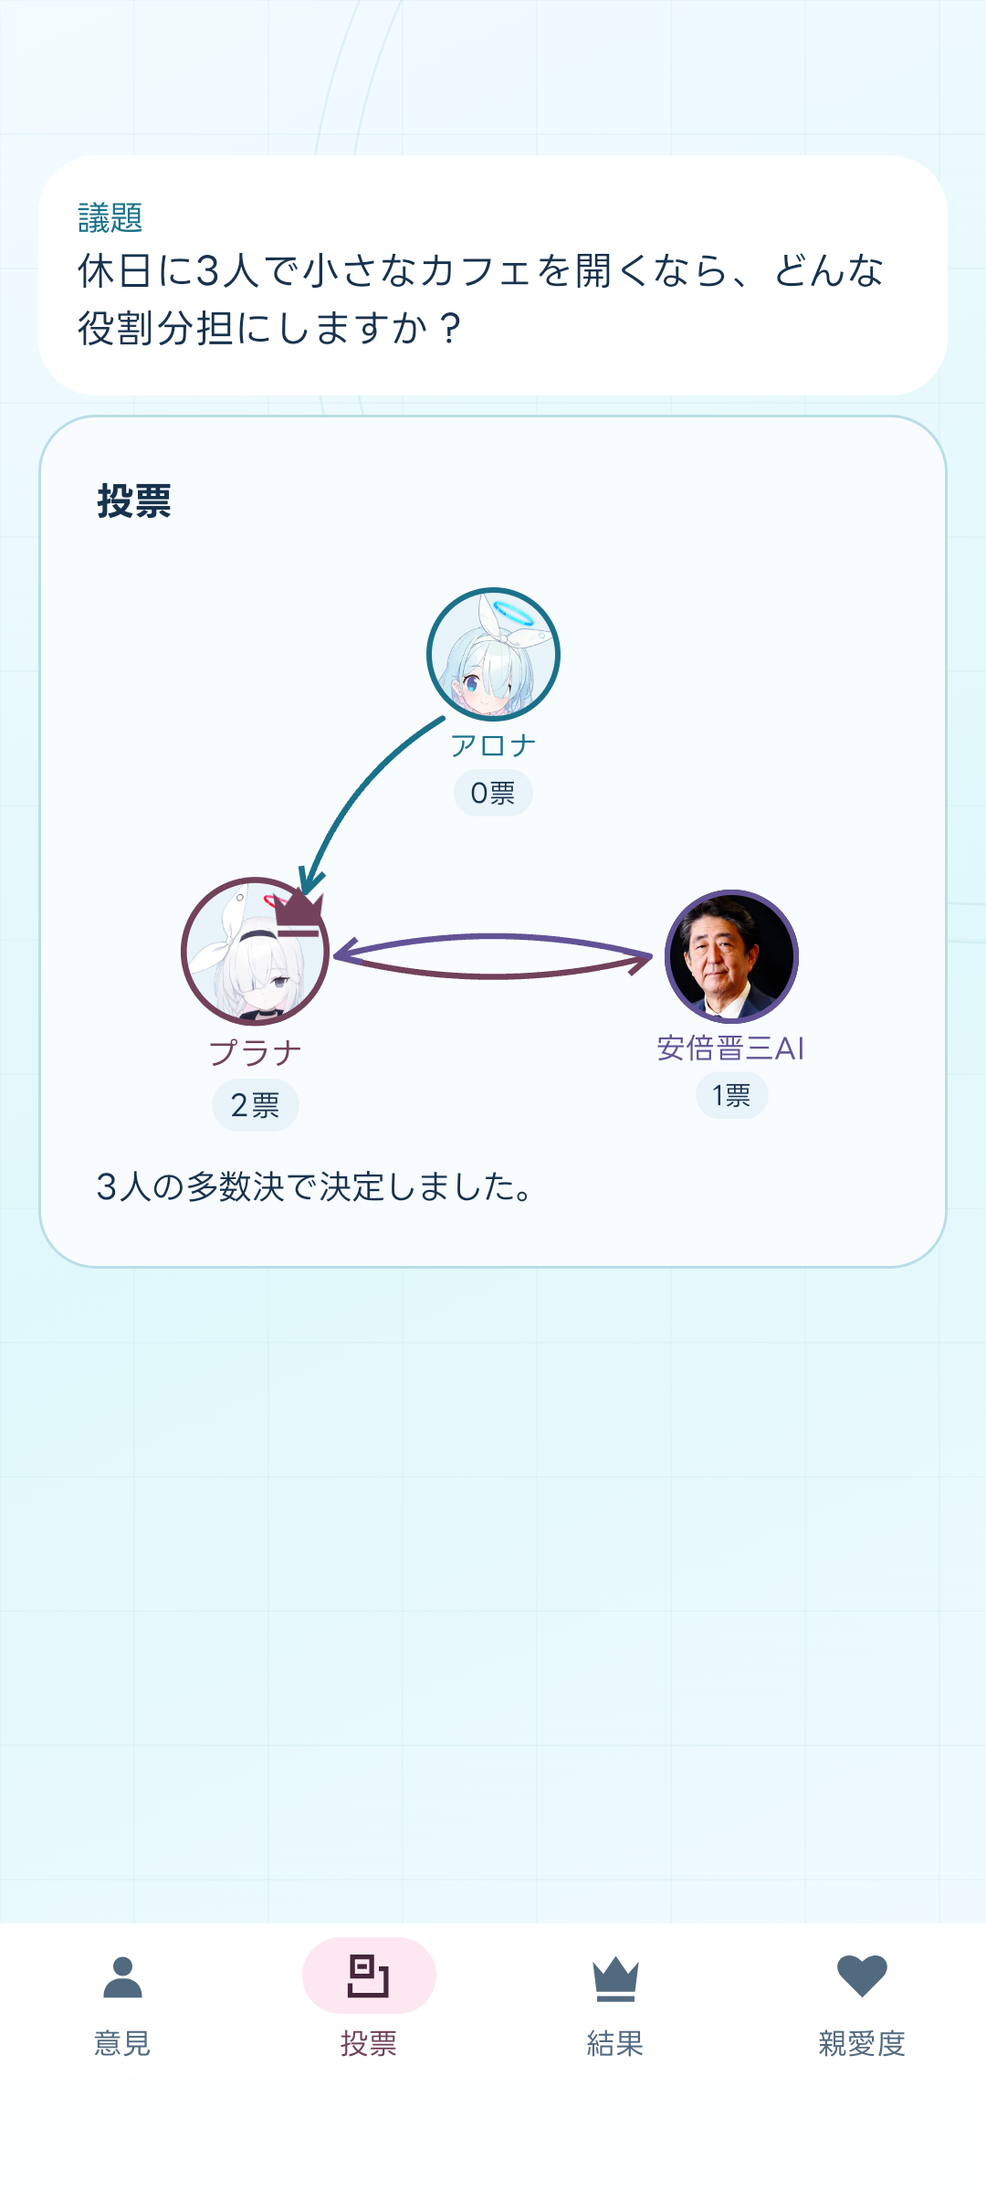
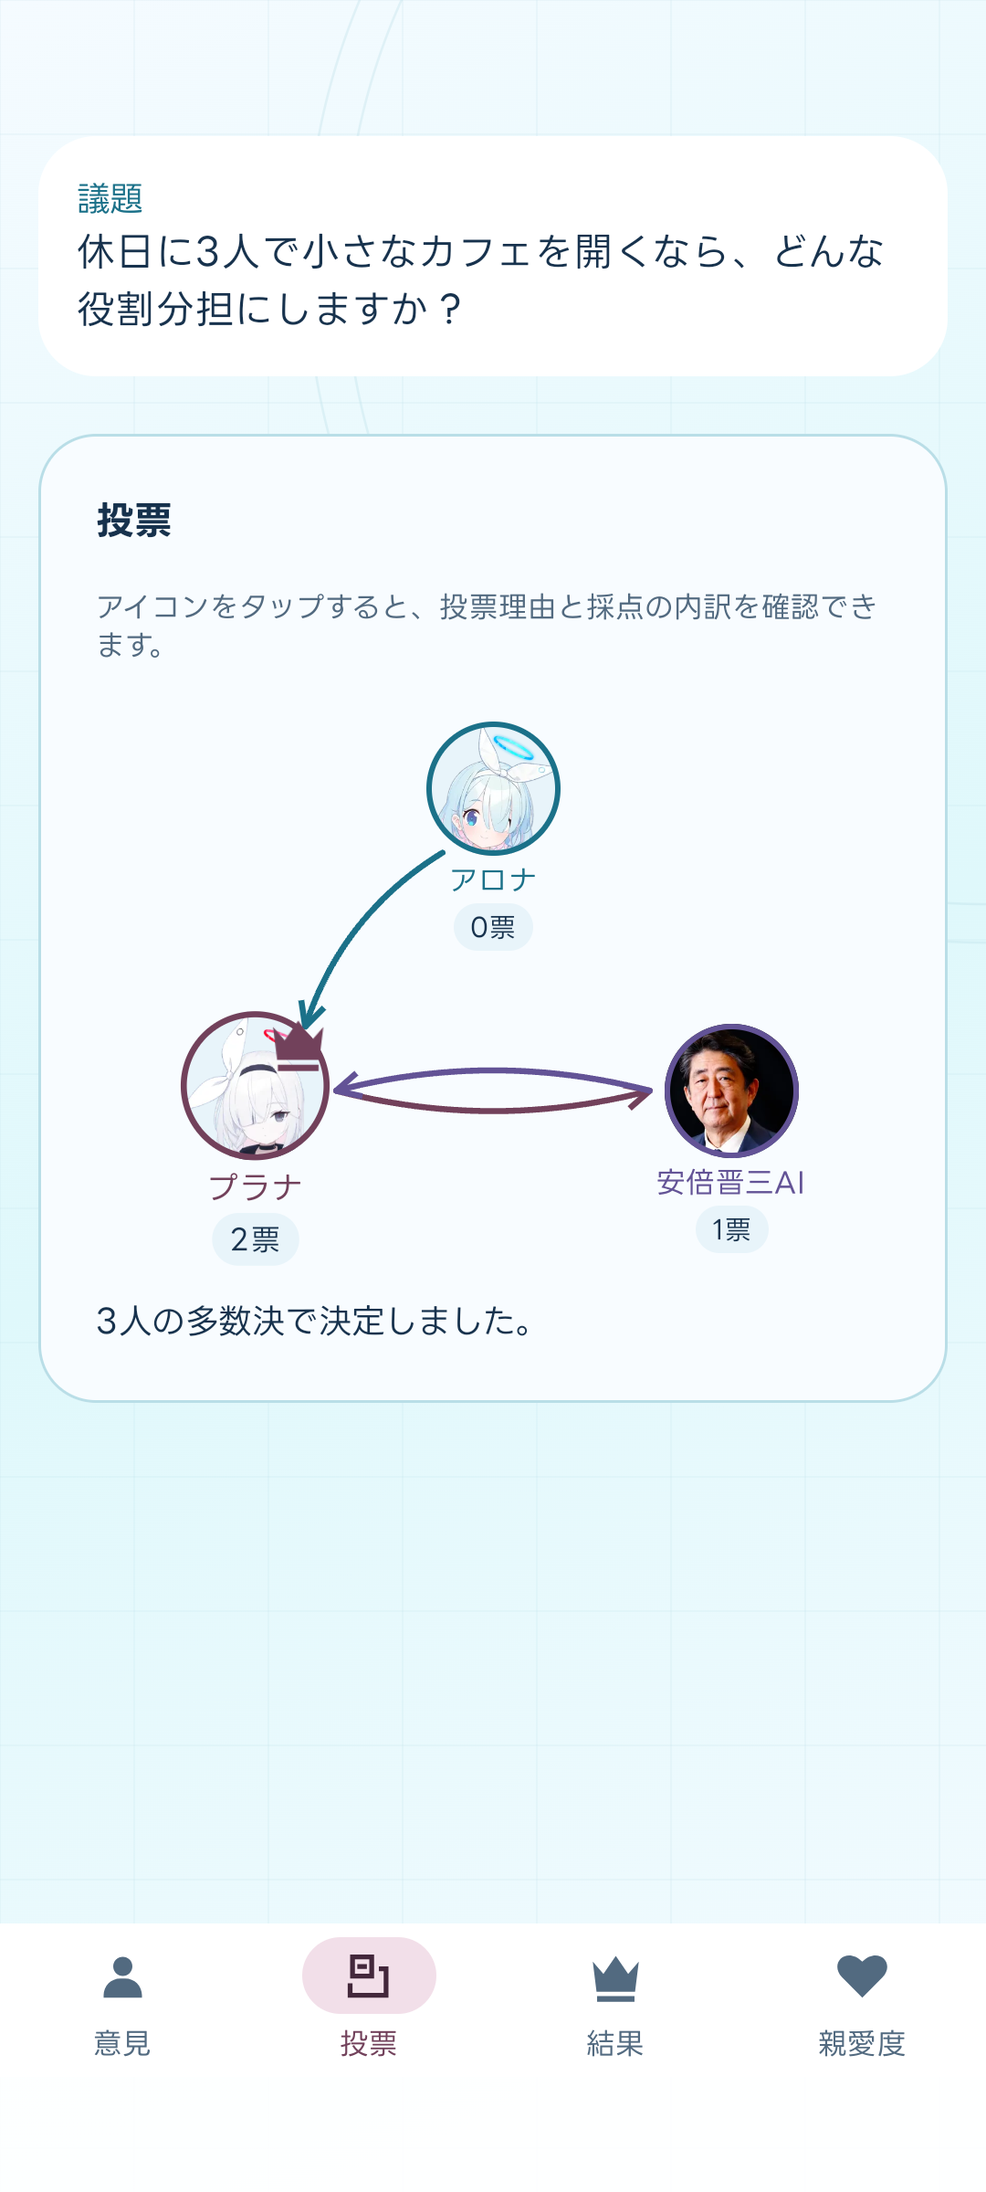
Android詳細の議題固定と戻り演出を修正

diff --git a/apps/records-android/app/src/main/java/dev/pitekusu/shittim/records/RecordDetailScreen.kt b/apps/records-android/app/src/main/java/dev/pitekusu/shittim/records/RecordDetailScreen.kt
@@ -2,11 +2,13 @@ package dev.pitekusu.shittim.records
 
 import androidx.annotation.DrawableRes
 import androidx.annotation.StringRes
+import androidx.compose.foundation.layout.BoxWithConstraints
 import androidx.compose.foundation.layout.Column
 import androidx.compose.foundation.layout.PaddingValues
 import androidx.compose.foundation.layout.WindowInsets
 import androidx.compose.foundation.layout.fillMaxSize
 import androidx.compose.foundation.layout.fillMaxWidth
+import androidx.compose.foundation.layout.heightIn
 import androidx.compose.foundation.layout.padding
 import androidx.compose.foundation.layout.size
 import androidx.compose.foundation.lazy.LazyColumn
@@ -14,6 +16,8 @@ import androidx.compose.foundation.lazy.LazyListState
 import androidx.compose.foundation.lazy.rememberLazyListState
 import androidx.compose.foundation.pager.HorizontalPager
 import androidx.compose.foundation.pager.rememberPagerState
+import androidx.compose.foundation.rememberScrollState
+import androidx.compose.foundation.verticalScroll
 import androidx.compose.material3.Icon
 import androidx.compose.material3.ExperimentalMaterial3Api
 import androidx.compose.material3.ModalBottomSheet
@@ -106,77 +110,83 @@ internal fun RecordDetailScreen(state: RecordPreviewState, recordId: String,
     // The API has three personas; each initial/final answer has its own small saved scroll state.
     val opinionScrollStates = List(3) { listOf(rememberLazyListState(), rememberLazyListState()) }
     val affectionScrollStates = List(3) { rememberLazyListState() }
-    Column(modifier.fillMaxSize()) {
-      HorizontalPager(pager, Modifier.weight(1f).fillMaxWidth().testTag("detail-pager"),
-        userScrollEnabled = state is RecordPreviewState.Ready) { page ->
-        val section = RecordDetailSection.entries[page]
-        var affectionControlsBottom by remember { mutableFloatStateOf(Float.NEGATIVE_INFINITY) }
-        val active = motionAllowed && !questionOpen && !pager.isScrollInProgress && pager.settledPage == page &&
-          lifecycle.isAtLeast(Lifecycle.State.STARTED)
-        val scrollState = if (section == RecordDetailSection.Opinions && opinion != null)
-          opinionScrollStates[opinionIndex.coerceIn(0, 2)][if (finalOpinion) 1 else 0]
-          else if (section == RecordDetailSection.Affection && affectionChanges.isNotEmpty())
-            affectionScrollStates[affectionIndex.coerceIn(0, 2)]
-          else if (section == RecordDetailSection.Result) resultScrollState
-          else scrollStates[page]
-        LazyColumn(Modifier.fillMaxSize().testTag(if (pager.settledPage == page) scrollTag
-          else "detail-inactive-$page")
-          .then(if (pager.settledPage == page) Modifier else Modifier.clearAndSetSemantics {}), state = scrollState,
-          contentPadding = PaddingValues(ShittimSpacing.Medium)) {
-          if (state is RecordPreviewState.Ready) item(key = "question") {
-            // Long questions scroll with the page: no ellipsis, and no fixed header stealing
-            // the entire answer/animation viewport at large font sizes.
-            Surface(onClick = { questionOpen = true },
-              color = MaterialTheme.colorScheme.surfaceContainer,
-              shape = MaterialTheme.shapes.large,
-              modifier = Modifier.fillMaxWidth().padding(bottom = ShittimSpacing.Small)
-                .testTag("detail-question-open")) {
-              Column(Modifier.padding(ShittimSpacing.Medium)) {
-                Text(stringResource(R.string.record_question),
-                  style = MaterialTheme.typography.labelLarge,
-                  color = MaterialTheme.colorScheme.primary)
-                Text(state.preview.question, style = MaterialTheme.typography.bodyLarge,
-                  modifier = Modifier.testTag("detail-question-text"))
-              }
+    val questionScrollState = rememberScrollState()
+    BoxWithConstraints(modifier.fillMaxSize()) {
+      // The shared question stays outside the pager. Bound only its viewport, never its text,
+      // so long questions and large fonts cannot consume all of the answer/navigation space.
+      val questionMaximumHeight = maxHeight * 0.35f
+      Column(Modifier.fillMaxSize()) {
+        if (state is RecordPreviewState.Ready) {
+          Surface(onClick = { questionOpen = true },
+            color = MaterialTheme.colorScheme.surfaceContainer,
+            shape = MaterialTheme.shapes.large,
+            modifier = Modifier.fillMaxWidth().heightIn(max = questionMaximumHeight)
+              .padding(horizontal = ShittimSpacing.Medium, vertical = ShittimSpacing.Small)
+              .testTag("detail-question-open")) {
+            Column(Modifier.verticalScroll(questionScrollState).testTag("detail-question-scroll")
+              .padding(ShittimSpacing.Medium)) {
+              Text(stringResource(R.string.record_question),
+                style = MaterialTheme.typography.labelLarge,
+                color = MaterialTheme.colorScheme.primary)
+              Text(state.preview.question, style = MaterialTheme.typography.bodyLarge,
+                modifier = Modifier.testTag("detail-question-text"))
             }
-          }
-          if (section == RecordDetailSection.Opinions && opinion != null) stickyHeader(key = "opinions") {
-            RecordOpinionControls(opinions, opinionIndex, finalOpinion,
-              onPerson = { opinionChoice = it }, onStage = { finalOpinion = it })
-          }
-          if (section == RecordDetailSection.Affection && affectionChanges.isNotEmpty()) stickyHeader(key = "affection") {
-            RecordAffectionControls(affectionChanges, affectionIndex,
-              Modifier.onGloballyPositioned { affectionControlsBottom = it.boundsInWindow().bottom }) {
-              if (it != affectionIndex) affectionPlayed = arrayListOf()
-              affectionChoice = it
-            }
-          }
-          item(key = section) {
-            RecordPreviewPanel(state, onEvent, recordId,
-              if (section == RecordDetailSection.Affection) affectionPlayed.toSet() else playedSections,
-              onSectionSeen = { seen ->
-                if (section == RecordDetailSection.Affection && seen !in affectionPlayed) {
-                  affectionPlayed = ArrayList(affectionPlayed).apply { add(seen) }
-                }
-                onSectionSeen(seen)
-              },
-              section = section, motionActive = active, opinion = opinion, finalOpinion = finalOpinion,
-              opinionMarkdown = opinionMarkdown.getOrNull(opinionIndex)?.get(if (finalOpinion) 1 else 0),
-              affectionIndex = affectionIndex,
-              minimumVisibleTop = { affectionControlsBottom },
-              decisionMarkdown = decisionMarkdown)
           }
         }
-      }
-      if (state is RecordPreviewState.Ready) {
-        // The parent already owns safe-drawing insets; don't reserve navigation-bar space twice.
-        ShortNavigationBar(windowInsets = WindowInsets(0, 0, 0, 0)) {
-          RecordDetailSection.entries.forEachIndexed { page, section ->
-            ShortNavigationBarItem(selected = pager.currentPage == page,
-              onClick = { scope.launch { pager.animateScrollToPage(page) } },
-              icon = { Icon(painterResource(section.icon), null, Modifier.size(24.dp)) },
-              label = { Text(stringResource(section.title)) },
-              modifier = Modifier.testTag("detail-section-${section.name}"))
+        HorizontalPager(pager, Modifier.weight(1f).fillMaxWidth().testTag("detail-pager"),
+          userScrollEnabled = state is RecordPreviewState.Ready) { page ->
+          val section = RecordDetailSection.entries[page]
+          var affectionControlsBottom by remember { mutableFloatStateOf(Float.NEGATIVE_INFINITY) }
+          val active = motionAllowed && !questionOpen && !pager.isScrollInProgress && pager.settledPage == page &&
+            lifecycle.isAtLeast(Lifecycle.State.STARTED)
+          val scrollState = if (section == RecordDetailSection.Opinions && opinion != null)
+            opinionScrollStates[opinionIndex.coerceIn(0, 2)][if (finalOpinion) 1 else 0]
+            else if (section == RecordDetailSection.Affection && affectionChanges.isNotEmpty())
+              affectionScrollStates[affectionIndex.coerceIn(0, 2)]
+            else if (section == RecordDetailSection.Result) resultScrollState
+            else scrollStates[page]
+          LazyColumn(Modifier.fillMaxSize().testTag(if (pager.settledPage == page) scrollTag
+            else "detail-inactive-$page")
+            .then(if (pager.settledPage == page) Modifier else Modifier.clearAndSetSemantics {}), state = scrollState,
+            contentPadding = PaddingValues(ShittimSpacing.Medium)) {
+            if (section == RecordDetailSection.Opinions && opinion != null) stickyHeader(key = "opinions") {
+              RecordOpinionControls(opinions, opinionIndex, finalOpinion,
+                onPerson = { opinionChoice = it }, onStage = { finalOpinion = it })
+            }
+            if (section == RecordDetailSection.Affection && affectionChanges.isNotEmpty()) stickyHeader(key = "affection") {
+              RecordAffectionControls(affectionChanges, affectionIndex,
+                Modifier.onGloballyPositioned { affectionControlsBottom = it.boundsInWindow().bottom }) {
+                if (it != affectionIndex) affectionPlayed = arrayListOf()
+                affectionChoice = it
+              }
+            }
+            item(key = section) {
+              RecordPreviewPanel(state, onEvent, recordId,
+                if (section == RecordDetailSection.Affection) affectionPlayed.toSet() else playedSections,
+                onSectionSeen = { seen ->
+                  if (section == RecordDetailSection.Affection && seen !in affectionPlayed) {
+                    affectionPlayed = ArrayList(affectionPlayed).apply { add(seen) }
+                  }
+                  onSectionSeen(seen)
+                },
+                section = section, motionActive = active, opinion = opinion, finalOpinion = finalOpinion,
+                opinionMarkdown = opinionMarkdown.getOrNull(opinionIndex)?.get(if (finalOpinion) 1 else 0),
+                affectionIndex = affectionIndex,
+                minimumVisibleTop = { affectionControlsBottom },
+                decisionMarkdown = decisionMarkdown)
+            }
+          }
+        }
+        if (state is RecordPreviewState.Ready) {
+          // The parent already owns safe-drawing insets; don't reserve navigation-bar space twice.
+          ShortNavigationBar(windowInsets = WindowInsets(0, 0, 0, 0)) {
+            RecordDetailSection.entries.forEachIndexed { page, section ->
+              ShortNavigationBarItem(selected = pager.currentPage == page,
+                onClick = { scope.launch { pager.animateScrollToPage(page) } },
+                icon = { Icon(painterResource(section.icon), null, Modifier.size(24.dp)) },
+                label = { Text(stringResource(section.title)) },
+                modifier = Modifier.testTag("detail-section-${section.name}"))
+            }
           }
         }
       }

diff --git a/apps/records-android/app/src/androidTest/java/dev/pitekusu/shittim/records/RecordDetailScreenTest.kt b/apps/records-android/app/src/androidTest/java/dev/pitekusu/shittim/records/RecordDetailScreenTest.kt
@@ -3,6 +3,7 @@ package dev.pitekusu.shittim.records
 import androidx.activity.compose.setContent
 import androidx.compose.runtime.mutableStateOf
 import androidx.compose.ui.test.assertIsSelected
+import androidx.compose.ui.test.assertIsDisplayed
 import androidx.compose.ui.semantics.SemanticsProperties
 import androidx.compose.ui.semantics.SemanticsActions
 import androidx.compose.ui.test.isDisplayed
@@ -11,9 +12,6 @@ import androidx.compose.ui.test.onNodeWithTag
 import androidx.compose.ui.test.onNodeWithText
 import androidx.compose.ui.test.performClick
 import androidx.compose.ui.test.performScrollTo
-import androidx.compose.ui.test.performScrollToNode
-import androidx.compose.ui.test.hasTestTag
-import androidx.compose.ui.test.hasText
 import androidx.compose.ui.test.performSemanticsAction
 import androidx.compose.ui.test.performTouchInput
 import androidx.compose.ui.test.swipeRight
@@ -52,6 +50,30 @@ class RecordDetailScreenTest {
     compose.onNodeWithTag("detail-pager").performTouchInput { swipeRight() }
     compose.waitUntil(5_000) { compose.onNodeWithText("この記録には意見データがありません。").isDisplayed() }
     compose.onNodeWithTag("detail-section-Opinions").assertIsSelected()
+  }
+
+  @Test fun questionStaysFixedWhileTabsSlideAndThePageChanges() {
+    compose.activityRule.scenario.onActivity { it.setContent {
+      ShittimTheme(false) { RecordDetailScreen(RecordPreviewState.Ready(preview()), "sample", {}) }
+    } }
+    val questionBounds = compose.onNodeWithTag("detail-question-open").fetchSemanticsNode().boundsInRoot
+    compose.mainClock.autoAdvance = false
+    try {
+      compose.onNodeWithTag("detail-section-Voting").performClick()
+      compose.mainClock.advanceTimeBy(96)
+      val duringSlide = compose.onNodeWithTag("detail-question-open").fetchSemanticsNode().boundsInRoot
+      assertEquals(questionBounds.left, duringSlide.left, 1f)
+      assertEquals(questionBounds.top, duringSlide.top, 1f)
+      assertEquals(questionBounds.width, duringSlide.width, 1f)
+      assertEquals(questionBounds.height, duringSlide.height, 1f)
+      compose.mainClock.advanceTimeBy(1_000)
+    } finally {
+      compose.mainClock.autoAdvance = true
+    }
+    compose.onNodeWithTag("detail-section-Voting").assertIsSelected()
+    compose.onNodeWithTag("detail-pager").performTouchInput { swipeRight() }
+    compose.onNodeWithTag("detail-section-Opinions").assertIsSelected()
+    assertEquals(questionBounds, compose.onNodeWithTag("detail-question-open").fetchSemanticsNode().boundsInRoot)
   }
 
   @Test fun switchingPagesRestoresResultReadingPositionAndAnotherRecordStartsAtOpinions() {
@@ -96,7 +118,6 @@ class RecordDetailScreenTest {
     compose.onNodeWithText("• 散歩する").assertDoesNotExist()
     compose.onNodeWithTag("detail-actions-expand").performScrollTo().performClick()
     compose.onNodeWithText("• 散歩する").assertExists()
-    compose.onNodeWithTag("record-detail-content").performScrollToNode(hasTestTag("detail-question-open"))
     compose.onNodeWithTag("detail-question-open").performClick()
     compose.waitUntil(5_000) { compose.onNodeWithTag("detail-question-sheet").isDisplayed() }
     InstrumentationRegistry.getInstrumentation().sendKeyDownUpSync(KeyEvent.KEYCODE_BACK)
@@ -112,7 +133,7 @@ class RecordDetailScreenTest {
     compose.onNodeWithText("• 天気を確認する").assertExists()
   }
 
-  @Test fun longQuestionIsNotEllipsizedAndScrollsWithTheAnswer() {
+  @Test fun longQuestionScrollsIndependentlyWithoutEllipsisOrHidingTheAnswer() {
     val question = "長い架空の議題について、順番に読み進められるように考えてください。\n".repeat(30)
     compose.activityRule.scenario.onActivity { it.setContent {
       ShittimTheme(false) { RecordDetailScreen(RecordPreviewState.Ready(
@@ -125,9 +146,19 @@ class RecordDetailScreenTest {
     assertTrue(layouts.single().lineCount > 2)
     assertFalse(layouts.single().hasVisualOverflow)
     assertFalse((0 until layouts.single().lineCount).any { layouts.single().isLineEllipsized(it) })
-    compose.onNodeWithTag("record-detail-content")
-      .performScrollToNode(hasText("この記録には意見データがありません。"))
-    compose.onNodeWithText("この記録には意見データがありません。").assertExists()
+    compose.onNodeWithText("この記録には意見データがありません。").assertIsDisplayed()
+    val questionScroll = compose.onNodeWithTag("detail-question-scroll", useUnmergedTree = true)
+    assertTrue(questionScroll.fetchSemanticsNode().config[SemanticsProperties.VerticalScrollAxisRange].maxValue() > 0f)
+    questionScroll.performTouchInput { swipeUp() }
+    val position = questionScroll.fetchSemanticsNode().config[SemanticsProperties.VerticalScrollAxisRange].value()
+    assertTrue(position > 0f)
+    compose.onNodeWithTag("detail-section-Voting").performClick()
+    assertEquals(position, questionScroll.fetchSemanticsNode()
+      .config[SemanticsProperties.VerticalScrollAxisRange].value(), 0.01f)
+    compose.onNodeWithTag("detail-section-Opinions").performClick()
+    compose.onNodeWithText("この記録には意見データがありません。").assertIsDisplayed()
+    assertEquals(position, questionScroll.fetchSemanticsNode()
+      .config[SemanticsProperties.VerticalScrollAxisRange].value(), 0.01f)
   }
 
   @Test fun opinionsDefaultToWinnerAndKeepEachAnswerReadingPositionDuringRefresh() {

diff --git a/apps/records-android/app/src/androidTest/java/dev/pitekusu/shittim/records/AdaptiveRecordsUiTest.kt b/apps/records-android/app/src/androidTest/java/dev/pitekusu/shittim/records/AdaptiveRecordsUiTest.kt
@@ -234,6 +234,8 @@ class AdaptiveRecordsUiTest {
     compose.waitForIdle()
     val detailQuestion = "架空の議題：休日に楽しむ散歩と読書"
     val detailLeft = compose.onNodeWithText(detailQuestion).fetchSemanticsNode().boundsInRoot.left
+    val navigationHeight = compose.onNodeWithTag("detail-section-Opinions", useUnmergedTree = true)
+      .fetchSemanticsNode().boundsInRoot.height
     compose.mainClock.autoAdvance = false
     try {
       compose.runOnIdle { compose.activity.onBackPressedDispatcher.onBackPressed() }
@@ -246,6 +248,10 @@ class AdaptiveRecordsUiTest {
         // A moving outgoing pane, not a frozen selected card or a placeholder flash.
         assertTrue(compose.onNodeWithText(detailQuestion, useUnmergedTree = true)
           .fetchSemanticsNode().boundsInRoot.left > detailLeft + 1f)
+        // Button Back slides horizontally; it must not shrink the entire scaffold
+        // and leave a separate scale-settle animation after the list appears.
+        assertEquals(navigationHeight, compose.onNodeWithTag("detail-section-Opinions", useUnmergedTree = true)
+          .fetchSemanticsNode().boundsInRoot.height, 1f)
         compose.onNodeWithText(compose.activity.getString(R.string.record_select)).assertDoesNotExist()
         capture("adaptive-back-slide-middle")
       }

diff --git a/apps/records-android/app/src/main/java/dev/pitekusu/shittim/records/AdaptiveRecordsUi.kt b/apps/records-android/app/src/main/java/dev/pitekusu/shittim/records/AdaptiveRecordsUi.kt
@@ -116,8 +116,10 @@ internal fun AdaptiveRecordsUi(
     }
     PredictiveBackHandler(enabled = state.selectedRecordId != null) { progress ->
       val selectedAtStart = currentState.value.selectedRecordId
+      var gestureInProgress = false
       try {
         progress.collect { event ->
+          gestureInProgress = true
           scaffoldState.seekTo(event.progress, listValue, isPredictiveBackInProgress = true)
         }
         // A completed gesture must not close another record or act after authentication is lost.
@@ -129,7 +131,9 @@ internal fun AdaptiveRecordsUi(
           if (ValueAnimator.areAnimatorsEnabled()) {
             scaffoldState.animateTo(listValue,
               animationSpec = tween(280, easing = FastOutSlowInEasing),
-              isPredictiveBackInProgress = true)
+              // A button-only Back has no predictive preview. Marking it as one
+              // shrinks the list, then adds a separate scale-restoring spring.
+              isPredictiveBackInProgress = gestureInProgress)
           } else scaffoldState.snapTo(listValue)
           if (currentState.value.canReadRecords && currentState.value.selectedRecordId == selectedAtStart) {
             currentState.value.eventSink(BootstrapScreen.Event.CloseRecord)

diff --git a/apps/records-android/app/src/main/java/dev/pitekusu/shittim/records/RecordVotingPanel.kt b/apps/records-android/app/src/main/java/dev/pitekusu/shittim/records/RecordVotingPanel.kt
@@ -68,6 +68,10 @@ internal fun RecordVotingPanel(voting: RecordVoting, winnerName: String, winnerS
   val selectedVote = voting.votes.getOrNull(selectedVoteIndex)
   val detailScrollStates = List(3) { rememberScrollState() }
   ShittimSectionHeading(stringResource(R.string.record_votes))
+  Text(stringResource(if (voting.votes.any { !it.assessments.isNullOrEmpty() })
+    R.string.record_vote_tap_details else R.string.record_vote_tap_reason),
+    style = MaterialTheme.typography.bodySmall,
+    color = MaterialTheme.colorScheme.onSurfaceVariant)
   val countSlots = voting.counts.map { participantVisualSlot(it.participantName, it.participantSlot) }
   val canDrawGraph = voting.counts.size == 3 && voting.votes.size == 3 &&
     countSlots.none { it == null } && countSlots.toSet().size == 3 &&
